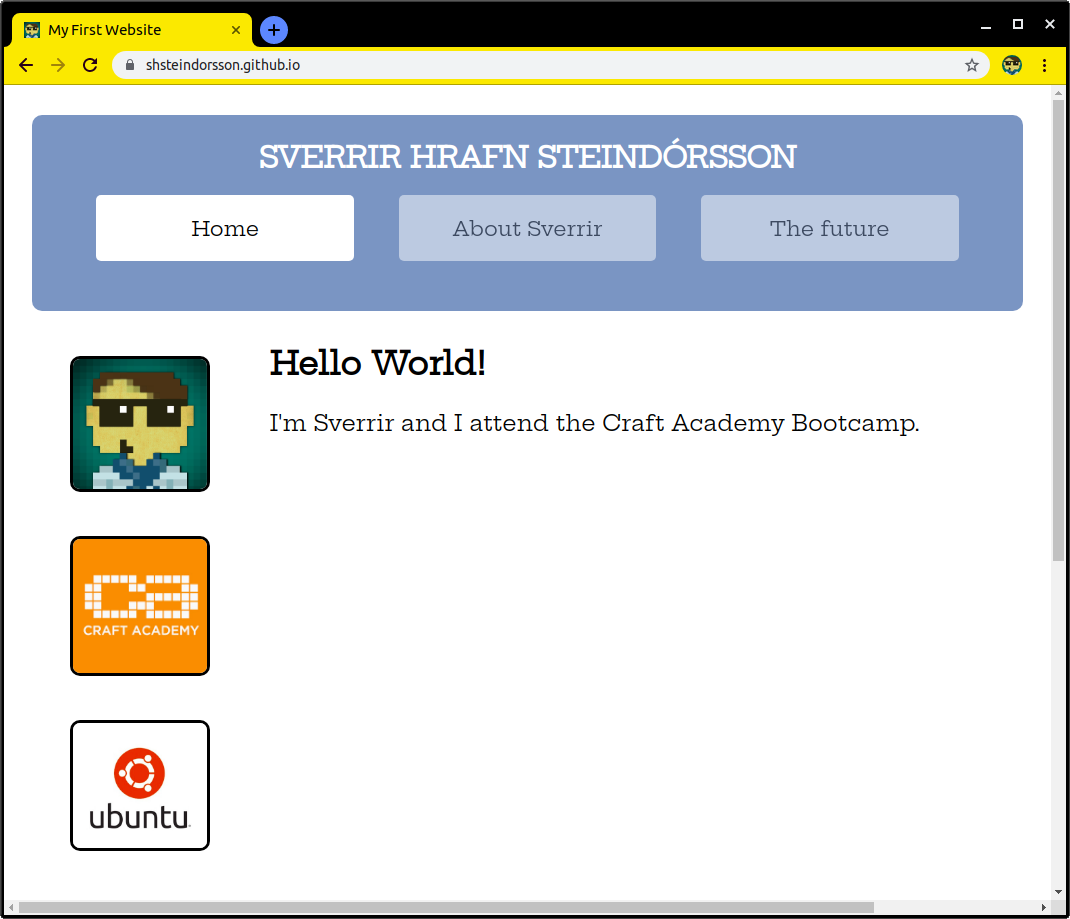
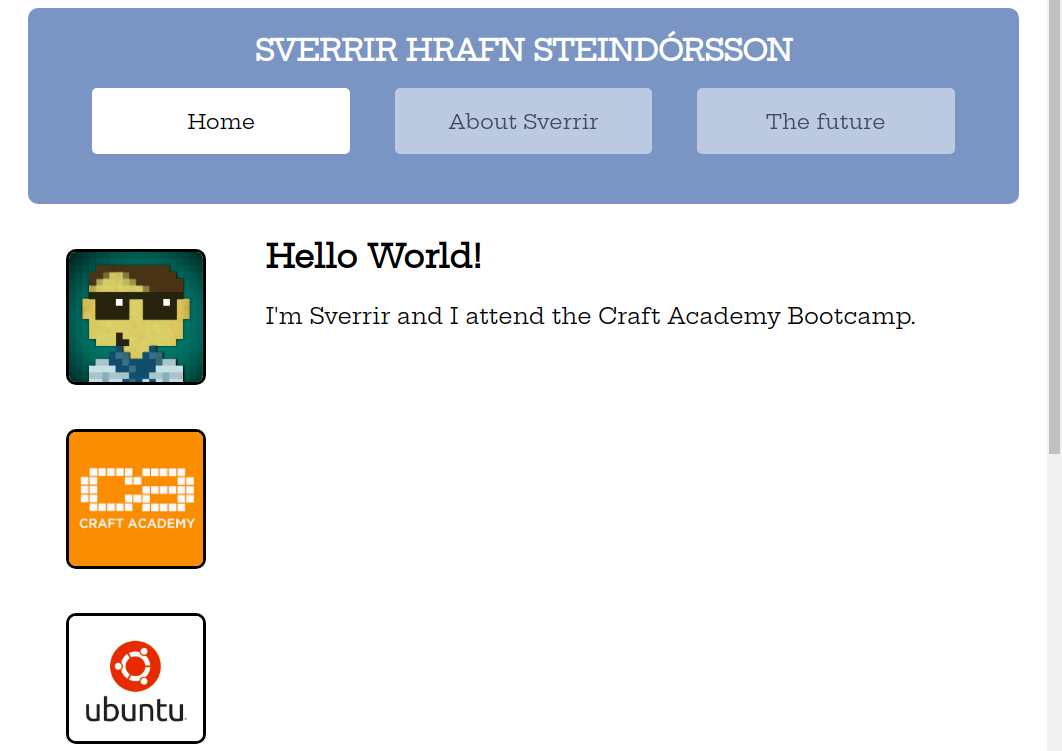
Add links to project cards

diff --git a/dist/style.css b/dist/style.css
@@ -1,5 +1,6 @@
 body{
   margin: 5% 0 5% 0;
+  background-image: url('https://github.com/shsteindorsson/react_portfolio/blob/master/src/img/white_triangles.jpg?raw=true');
 }
 footer {
   position: fixed;
@@ -8,12 +9,12 @@ footer {
   height: 50px;
   padding-top: 20px;
   padding-bottom: 20px;
-  background-color: #AEA79F;/*#f5f5f5*/
+  background-color: #FFFFFF;/*#f5f5f5*/
   margin-top: 0 auto;
   margin-bottom: 0;
   text-align: center;
-  color: #FFFFFF;
-  opacity: 0.5;
+  color: rgb(82, 83, 97);
+  opacity: 0.7;
 }
 .main.container {
   margin-top: 4em;
@@ -24,6 +25,6 @@ footer {
 #hello-site{
   text-align: center;
 }
-img{
+#img-hello{
   border-radius: 50%;
 }

diff --git a/src/Hello.jsx b/src/Hello.jsx
@@ -9,7 +9,7 @@ const Hello = () => {
         <p>I prefer to work under the hood and let other people deal with the exterior.</p>  
       </div>
       <br></br>
-      <img src="https://github.com/shsteindorsson/shsteindorsson.github.io/blob/master/images/8bit_shs.png?raw=true"></img>
+      <img id="img-hello" src="https://github.com/shsteindorsson/shsteindorsson.github.io/blob/master/images/8bit_shs.png?raw=true"></img>
     </div>
   )
 }

diff --git a/src/ProjectCard.jsx b/src/ProjectCard.jsx
@@ -13,6 +13,10 @@ const ProjectCard = (props) => {
 
           <div class="description">
             {project.description}
+            <br></br>
+            <a href={project.link}>
+              <i class="github alternate icon"></i>
+            </a>
           </div>
         </div>
       </div>
